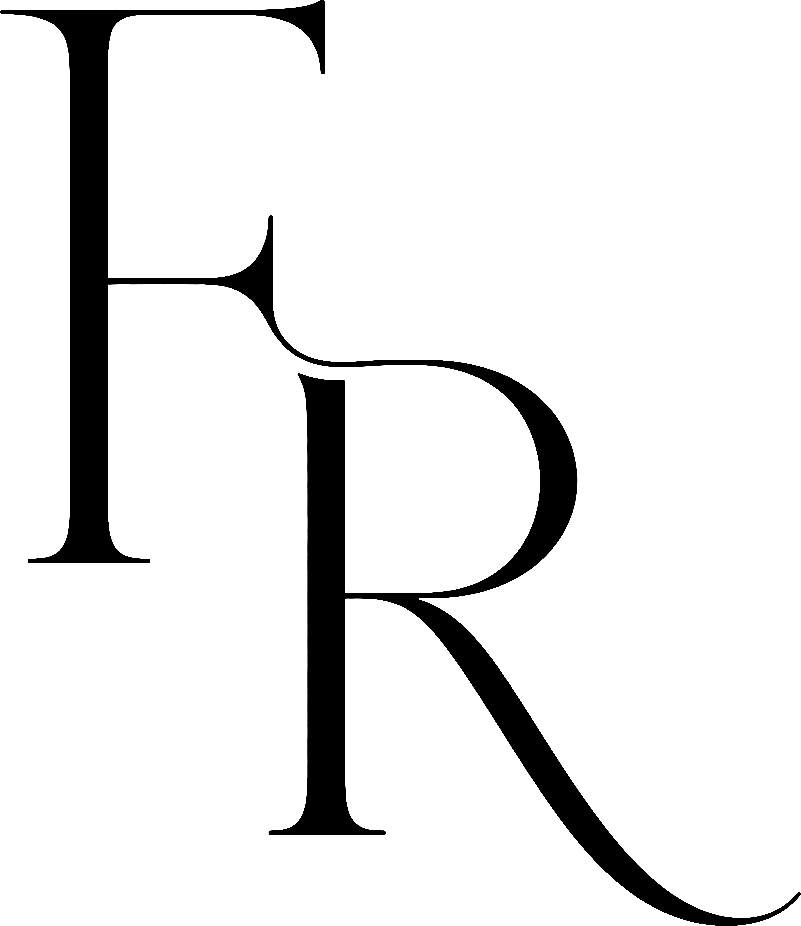
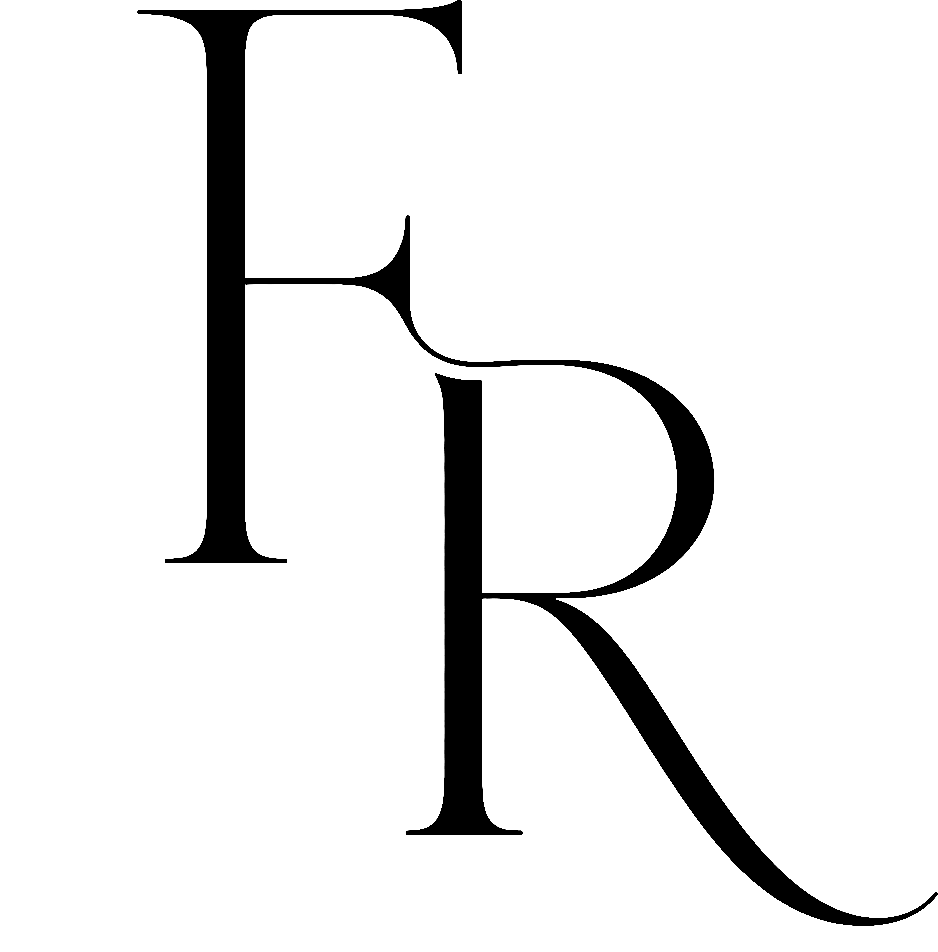
Centra el monograma, cambia la frase del pie y acota la direccion
Tres cambios que caen en los mismos archivos:

1. Monograma centrado opticamente. La cola de la R estira la caja del dibujo
   hacia la derecha sin aportar tinta, asi que centrando la caja el volumen
   quedaba 91px (11.4%) a la izquierda del centro. Se corrige en el archivo y
   no con reglas por sitio: el PNG lleva ahora 137px de relleno transparente a
   la izquierda y 26px abajo, de modo que el centro del lienzo sea el centro
   optico y `mask: center` acierte solo en los cuatro sitios. El centro optico
   se tomo al 75% del camino entre el centro de la caja y el centroide del
   alfa; el centroide puro se pasaba de largo y dejaba hueco al otro lado.
   Medido sobre el render contra el filete y la fecha, que si estan centrados:
   el desvio del volumen pasa de 13.6px a 3.5px.
   El aspect-ratio pasa de 801/926 a 938/952 en los tres HTML, y el comentario
   del <head> deja de decir que el archivo va recortado al arte, que habria
   hecho que el siguiente deshiciera la correccion sin querer.

2. Frase del pie. Es texto real, no la imagen de quote que va sobre la foto.

3. La direccion de cada evento se acota a 400px en desktop (min-width 992px).
   Sin tope ocupaba el ancho de su columna y la calle, la colonia y el codigo
   postal se estiraban en un renglon largo. Afecta a los dos eventos, que es
   lo que los mantiene simetricos. Por debajo de 992px no cambia nada: ahi
   manda el <br class="mobile-only"> que ya traia el marcado.
[…]

Changed region(s): [[0.3433, 0.3326, 1.0, 1.0], [0.0, 0.0, 0.437, 0.635], [0.3121, 0.0, 0.4994, 0.0907]]

diff --git a/index.html b/index.html
@@ -26,10 +26,20 @@
        negro, pero eso da igual: se pinta de mascara y el color sale de la paleta
        (--fyr-logo en el hero, --fyr-logo-loader en el loader y el 404, y
        --fyr-footer-logo en el pie), asi que no hace falta una version clara para
-       el pie ni para la foto. Del PNG solo se usa el canal alfa. Viene recortado
-       al arte (801x926); el aire alrededor lo pone el CSS, no el archivo, asi que
-       si algun dia lo sustituyen conviene entregarlo igual de ajustado o corregir
-       los aspect-ratio de mas abajo.
+       el pie ni para la foto. Del PNG solo se usa el canal alfa.
+
+       El lienzo (938x952) NO es el recorte del dibujo: lleva 137px de relleno a
+       la izquierda y 26px abajo, puestos a proposito. La cola de la R estira la
+       caja hacia la derecha sin apenas tinta, asi que centrando la caja el
+       monograma se ve corrido a la izquierda; el relleno mueve el centro del
+       lienzo al centro optico y entonces `mask: center` acierta en los cuatro
+       sitios sin reglas por sitio. El centro optico se tomo al 75% del camino
+       entre el centro de la caja y el centroide del alfa (el centroide puro se
+       pasaba de largo).
+
+       Si algun dia lo sustituyen, ese relleno hay que rehacerlo para el dibujo
+       nuevo y actualizar los aspect-ratio de mas abajo, que valen las medidas
+       del lienzo.
        ========================================================================== -->
   <title>Fernanda &amp; Roberto ♡ | 18 de Octubre 2026</title>
   <meta content="Nos casamos el domingo 18 de octubre de 2026 en Monterrey, N.L. Aquí encontrarás el itinerario, el código de vestimenta y la mesa de regalos." name="description">
@@ -1328,6 +1338,17 @@
       }
     }
 
+    /* La direccion de cada evento se corta a 400px. Sin tope ocupa todo el ancho
+       de su columna y la calle, la colonia y el codigo postal se estiran en un
+       renglon largo que se lee peor que partido en dos. Solo desktop: el ancho de
+       tablet y movil lo maneja el <br class="mobile-only"> que ya trae el marcado.
+       Afecta a los dos eventos, que es lo que los mantiene simetricos. */
+    @media (min-width: 992px) {
+      .itinerario-paragraph-adress {
+        max-width: 400px;
+      }
+    }
+
     /* ===== Unificación de espaciados verticales en desktop =====
        Ritmo base de 120px entre secciones. Las secciones que abren con título
        (hospedaje y regalo) llevan padding-top 0 porque la anterior ya aporta
@@ -1502,18 +1523,18 @@
       mask: url(images/f-r-monograma.png) center / contain no-repeat;
     }
 
-    /* Un <span> vacio no hereda la proporcion del archivo (801x926): hay que
+    /* Un <span> vacio no hereda la proporcion del archivo (938x952): hay que
        declararla, y dar una medida fija en el eje que la manda. En el hero ya se la
        dan las reglas de .hero__image-wrapper de mas arriba. */
     .logo-loader.logo-tinta {
       width: auto;
       height: 140px;
-      aspect-ratio: 801 / 926;
+      aspect-ratio: 938 / 952;
       background-color: var(--fyr-logo-loader);
     }
 
     .footer__logo.logo-tinta {
-      aspect-ratio: 801 / 926;
+      aspect-ratio: 938 / 952;
       background-color: var(--fyr-footer-logo);
     }
 
@@ -2282,8 +2303,9 @@
   <section class="footer">
     <div class="w-layout-blockcontainer container-4 w-container"><span role="img" aria-label="Fernanda y Roberto"
         class="footer__logo logo-tinta reveal-up"></span>
-      <p class="footer_paragraph reveal-up reveal-delay-1">Nos encantará atesorar cada instante de esta celebración.<br>Si así lo desean, pueden
-        compartir sus fotografías utilizando nuestro hashtag.</p>
+      <p class="footer_paragraph reveal-up reveal-delay-1">Este día estará lleno de momentos que deseamos conservar
+        para siempre.<br>Si así lo desean, compartan sus fotografías con nosotros
+        utilizando nuestro hashtag.</p>
       <p class="footer_hash heading-3 reveal-up reveal-delay-2">#FeryBeto</p>
       <div>
         <div class="div-block-7">

diff --git a/v2.html b/v2.html
@@ -32,10 +32,20 @@
        negro, pero eso da igual: se pinta de mascara y el color sale de la paleta
        (--fyr-logo en el hero, --fyr-logo-loader en el loader y el 404, y
        --fyr-footer-logo en el pie), asi que no hace falta una version clara para
-       el pie ni para la foto. Del PNG solo se usa el canal alfa. Viene recortado
-       al arte (801x926); el aire alrededor lo pone el CSS, no el archivo, asi que
-       si algun dia lo sustituyen conviene entregarlo igual de ajustado o corregir
-       los aspect-ratio de mas abajo.
+       el pie ni para la foto. Del PNG solo se usa el canal alfa.
+
+       El lienzo (938x952) NO es el recorte del dibujo: lleva 137px de relleno a
+       la izquierda y 26px abajo, puestos a proposito. La cola de la R estira la
+       caja hacia la derecha sin apenas tinta, asi que centrando la caja el
+       monograma se ve corrido a la izquierda; el relleno mueve el centro del
+       lienzo al centro optico y entonces `mask: center` acierta en los cuatro
+       sitios sin reglas por sitio. El centro optico se tomo al 75% del camino
+       entre el centro de la caja y el centroide del alfa (el centroide puro se
+       pasaba de largo).
+
+       Si algun dia lo sustituyen, ese relleno hay que rehacerlo para el dibujo
+       nuevo y actualizar los aspect-ratio de mas abajo, que valen las medidas
+       del lienzo.
        ========================================================================== -->
   <meta content="width=device-width, initial-scale=1" name="viewport">
   <meta content="telephone=no, date=no, address=no, email=no" name="format-detection">
@@ -1309,6 +1319,17 @@
       }
     }
 
+    /* La direccion de cada evento se corta a 400px. Sin tope ocupa todo el ancho
+       de su columna y la calle, la colonia y el codigo postal se estiran en un
+       renglon largo que se lee peor que partido en dos. Solo desktop: el ancho de
+       tablet y movil lo maneja el <br class="mobile-only"> que ya trae el marcado.
+       Afecta a los dos eventos, que es lo que los mantiene simetricos. */
+    @media (min-width: 992px) {
+      .itinerario-paragraph-adress {
+        max-width: 400px;
+      }
+    }
+
     /* ===== Unificación de espaciados verticales en desktop =====
        Ritmo base de 120px entre secciones. Las secciones que abren con título
        (hospedaje y regalo) llevan padding-top 0 porque la anterior ya aporta
@@ -1483,18 +1504,18 @@
       mask: url(images/f-r-monograma.png) center / contain no-repeat;
     }
 
-    /* Un <span> vacio no hereda la proporcion del archivo (801x926): hay que
+    /* Un <span> vacio no hereda la proporcion del archivo (938x952): hay que
        declararla, y dar una medida fija en el eje que la manda. En el hero ya se la
        dan las reglas de .hero__image-wrapper de mas arriba. */
     .logo-loader.logo-tinta {
       width: auto;
       height: 140px;
-      aspect-ratio: 801 / 926;
+      aspect-ratio: 938 / 952;
       background-color: var(--fyr-logo-loader);
     }
 
     .footer__logo.logo-tinta {
-      aspect-ratio: 801 / 926;
+      aspect-ratio: 938 / 952;
       background-color: var(--fyr-footer-logo);
     }
 
@@ -2263,8 +2284,9 @@
   <section class="footer">
     <div class="w-layout-blockcontainer container-4 w-container"><span role="img" aria-label="Fernanda y Roberto"
         class="footer__logo logo-tinta reveal-up"></span>
-      <p class="footer_paragraph reveal-up reveal-delay-1">Nos encantará atesorar cada instante de esta celebración.<br>Si así lo desean, pueden
-        compartir sus fotografías utilizando nuestro hashtag.</p>
+      <p class="footer_paragraph reveal-up reveal-delay-1">Este día estará lleno de momentos que deseamos conservar
+        para siempre.<br>Si así lo desean, compartan sus fotografías con nosotros
+        utilizando nuestro hashtag.</p>
       <p class="footer_hash heading-3 reveal-up reveal-delay-2">#FeryBeto</p>
       <div>
         <div class="div-block-7">

diff --git a/404.html b/404.html
@@ -52,12 +52,12 @@
        fondo, porque el monograma del hero cae sobre una foto y no sobre el papel.
        Aqui el fondo es justo ese color, asi que seria invisible. --fyr-logo-loader
        existe precisamente para un monograma puesto sobre el fondo de pagina.
-       Un <span> vacio no hereda la proporcion del archivo (801x926): se declara. */
+       Un <span> vacio no hereda la proporcion del archivo (938x952): se declara. */
     .e404__logo {
       display: inline-block;
       height: 120px;
       width: auto;
-      aspect-ratio: 801 / 926;
+      aspect-ratio: 938 / 952;
       background-color: var(--fyr-logo-loader);
       -webkit-mask: url(images/f-r-monograma.png) center / contain no-repeat;
       mask: url(images/f-r-monograma.png) center / contain no-repeat;
